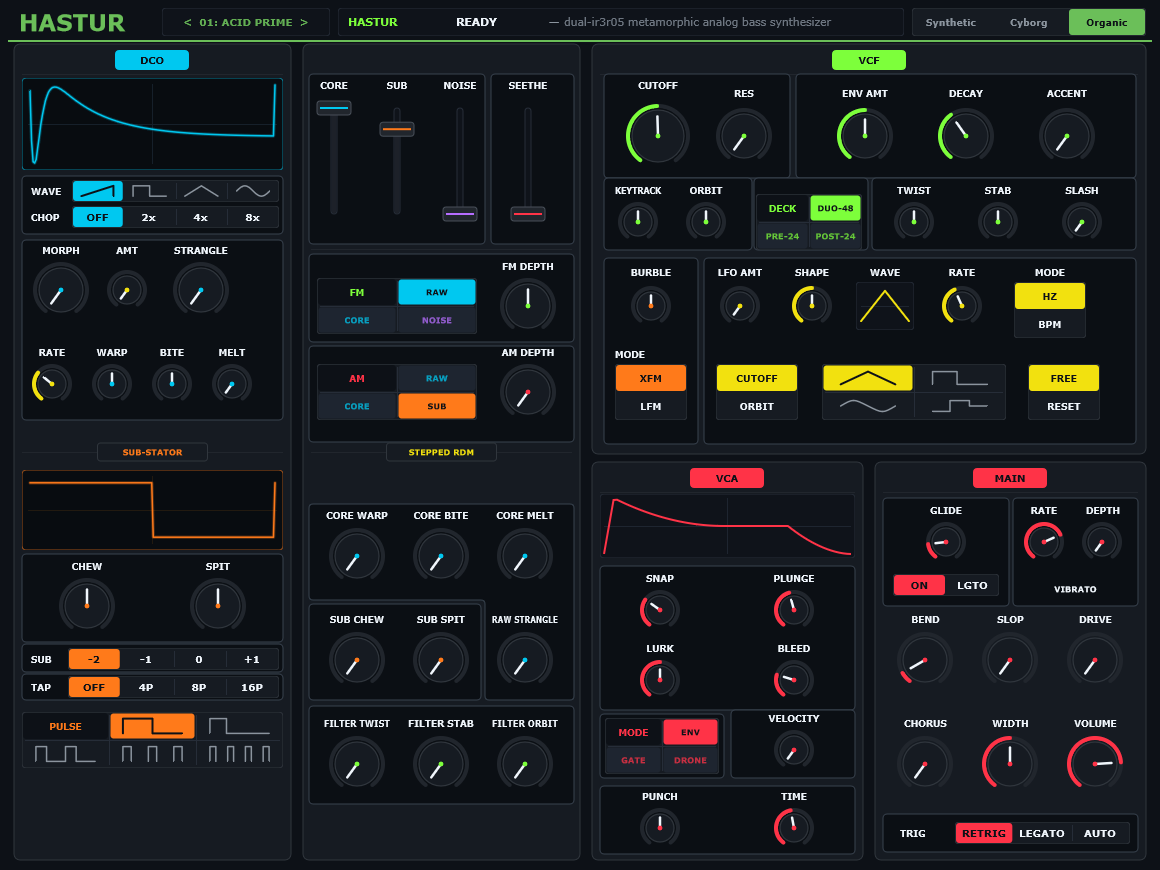
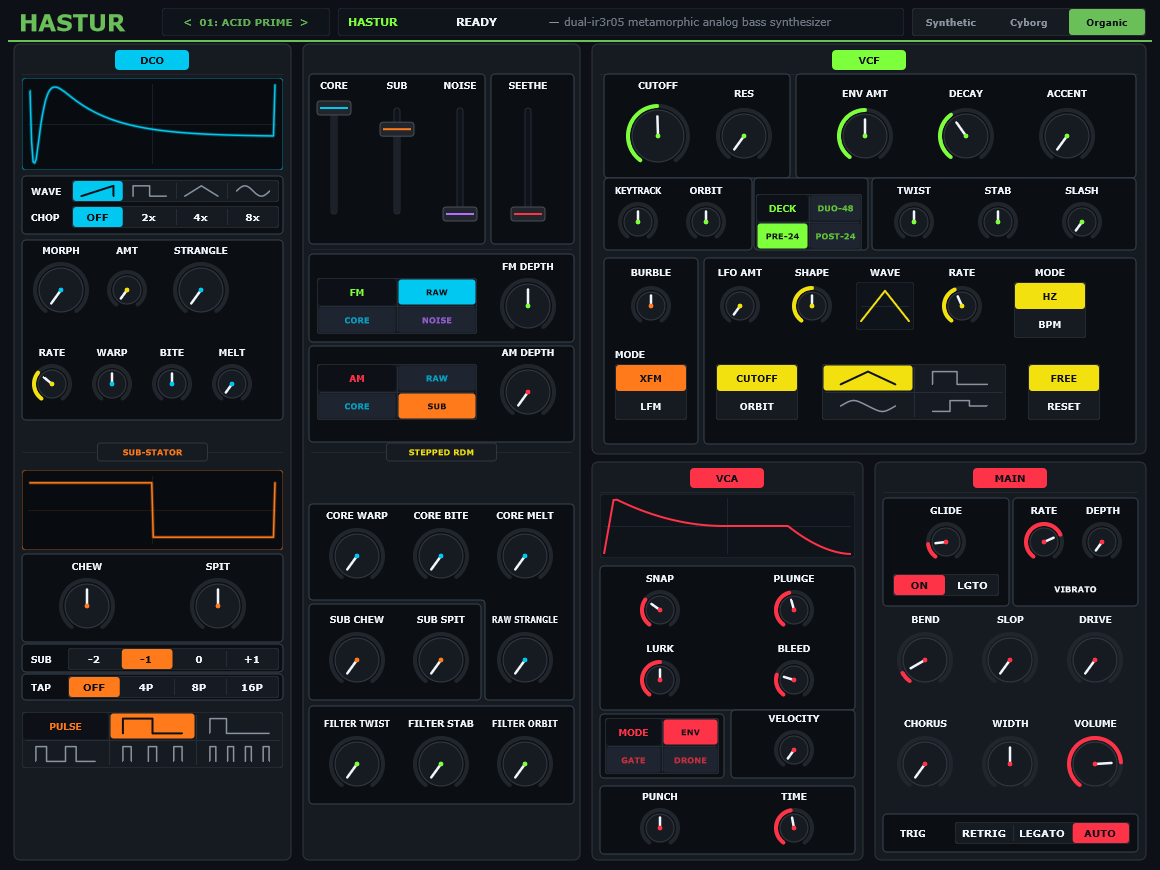
refactor(hastur): establish Hastur sovereign naming invariant, eradicate HS-01 suffix

diff --git a/test/dsp_tests.cpp b/test/dsp_tests.cpp
@@ -3183,10 +3183,10 @@ int main() {
     }
 
     // =========================================================================
-    // SUITE 47: Hastur HS-01 57-Parameter Metadata Dictionary & SSoT Telemetry
+    // SUITE 47: Hastur 70-Parameter Metadata Dictionary & SSoT Telemetry
     // =========================================================================
     {
-        std::cout << "--- Suite 47: Hastur HS-01 70-Parameter Metadata Dictionary & SSoT Telemetry ---" << std::endl;
+        std::cout << "--- Suite 47: Hastur 70-Parameter Metadata Dictionary & SSoT Telemetry ---" << std::endl;
 
         const char* allParamIds[70] = {
             hasturParameters::Ids::osc1_mult,
@@ -3273,11 +3273,11 @@ int main() {
         assert(HasturInfo::getDynamicShapeBlurb(2) == "infinifold");
         assert(HasturInfo::getDynamicShapeBlurb(3) == "slew rate");
 
-        std::cout << "PASS: Suite 47: Hastur HS-01 70-Parameter Metadata Dictionary & SSoT Telemetry verified 100%!\n" << std::endl;
+        std::cout << "PASS: Suite 47: Hastur 70-Parameter Metadata Dictionary & SSoT Telemetry verified 100%!\n" << std::endl;
     }
 
     {
-        std::cout << "--- Suite 48: Hastur HS-01 Stepped Random Modulation Math & Global Trigger Modes ---" << std::endl;
+        std::cout << "--- Suite 48: Hastur Stepped Random Modulation Math & Global Trigger Modes ---" << std::endl;
 
         auto stepRandomNorm = [](float kNorm, float amount, float r) noexcept -> float {
             return std::clamp(kNorm + amount * (r - kNorm), 0.0f, 1.0f);
@@ -3438,7 +3438,7 @@ int main() {
         // NoteOn with ALL_NEW_NOTES draws new step
         voice.noteOn(62, 0.8f, 0.005f, CrackedChimes::DSP::HasturVoice::LfoTriggerMode::ALL_NEW_NOTES);
 
-        std::cout << "PASS: Suite 48: Hastur HS-01 Stepped Random Modulation Math & Global Trigger Modes verified 100%!\n" << std::endl;
+        std::cout << "PASS: Suite 48: Hastur Stepped Random Modulation Math & Global Trigger Modes verified 100%!\n" << std::endl;
     }
 
 
@@ -3530,7 +3530,7 @@ int main() {
     }
 
     // =========================================================================
-    // SUITE 50: Hastur HS-01 Lifeform Oversampling, VCA Voicing & Monolithic 2x Core
+    // SUITE 50: Hastur Lifeform Oversampling, VCA Voicing & Monolithic 2x Core
     // SSoT: Monolithic 2x Voice Core, 12th-Order HIIR Decimator, 3-Tier VCA Voicing
     // =========================================================================
     {
@@ -3666,11 +3666,11 @@ int main() {
             }
         }
 
-        std::cout << "PASS: Suite 50: Hastur HS-01 Lifeform Oversampling, VCA Voicing & Monolithic 2x Core verified 100%!\n" << std::endl;
+        std::cout << "PASS: Suite 50: Hastur Lifeform Oversampling, VCA Voicing & Monolithic 2x Core verified 100%!\n" << std::endl;
     }
 
     // =========================================================================
-    // SUITE 51: Hastur HS-01 Tactile Feel, 8-Octave Acid Sweep & Tracker Auto-Legato
+    // SUITE 51: Hastur Tactile Feel, 8-Octave Acid Sweep & Tracker Auto-Legato
     // SSoT: Bipolar S-Curve Burble, Progressive 96-st Env Sweep, Snappy Cyborg LPG, Renoise Grace Legato
     // =========================================================================
     {
@@ -3773,11 +3773,11 @@ int main() {
             assert(voice.getStepRand(0) == rand0Before);
         }
 
-        std::cout << "PASS: Suite 51: Hastur HS-01 Tactile Feel, 8-Octave Acid Sweep & Tracker Auto-Legato verified 100%!\n" << std::endl;
+        std::cout << "PASS: Suite 51: Hastur Tactile Feel, 8-Octave Acid Sweep & Tracker Auto-Legato verified 100%!\n" << std::endl;
     }
 
     // =========================================================================
-    // SUITE 52: Hastur HS-01 Elevated Lifeform Anti-Aliasing Gauntlet & Benchmark
+    // SUITE 52: Hastur Elevated Lifeform Anti-Aliasing Gauntlet & Benchmark
     // SSoT: Coherent FFT Spur Suppression (C6, C7, C8), Monolithic 2x Core, ADAA1
     // =========================================================================
     {
@@ -4085,7 +4085,7 @@ int main() {
             assert(nsPerSample < 2000.0);
         }
 
-        std::cout << "PASS: Suite 52: Hastur HS-01 Elevated Lifeform Anti-Aliasing Gauntlet verified 100%!\n" << std::endl;
+        std::cout << "PASS: Suite 52: Hastur Elevated Lifeform Anti-Aliasing Gauntlet verified 100%!\n" << std::endl;
     }
 
 

diff --git a/source/hastur/archive/Hastur_Osc3_PLL_QuadLFO_Archive.h b/source/hastur/archive/Hastur_Osc3_PLL_QuadLFO_Archive.h
@@ -3,14 +3,14 @@
 /**
  * ==============================================================================
  * CRACKED CHIMES // ARCHIVE REPOSITORY
- * Subsystem: HASTUR HS-01 — Osc 3, Doepfer A-196 PLL, Quadrature LFO & Mod C Archive
+ * Subsystem: HASTUR — Osc 3, Doepfer A-196 PLL, Quadrature LFO & Mod C Archive
  * Date Archived: 2026-10-28
  * Planned Destination: Phonomicon / The Klang Chimaera Flagship Modular Synthesizer
  * ==============================================================================
  *
  * This archive preserves the complete production-tested DSP, parameter layout,
  * and modulation routing for the complex experimental modules originally designed
- * for Hastur HS-01, preserved prior to the Workhorse Refactoring (Phase 1):
+ * for Hastur, preserved prior to the Workhorse Refactoring (Phase 1):
  *
  * 1. Osc 3 Tri-State Pitch Source Engine (MIDI, PLL, Quadrature LFO)
  * 2. Doepfer A-196 Phase Locked Loop (PLL) with 8x Multisampling

diff --git a/source/hastur/HasturEditor.cpp b/source/hastur/HasturEditor.cpp
@@ -854,7 +854,7 @@ void WaveformGridModal::paint(juce::Graphics& g) {
 }
 
 // ==============================================================================
-// Master Hastur HS-01 Audio Processor Editor Implementation
+// Master Hastur Audio Processor Editor Implementation
 // ==============================================================================
 
 HasturAudioProcessorEditor::HasturAudioProcessorEditor(HasturAudioProcessor& p)

diff --git a/source/hastur/HasturEditor.h b/source/hastur/HasturEditor.h
@@ -1155,7 +1155,7 @@ private:
 };
 
 // ==============================================================================
-// Master Hastur HS-01 Audio Processor Editor
+// Master Hastur Audio Processor Editor
 // ==============================================================================
 
 // ==============================================================================

diff --git a/source/hastur/HasturVoice.h b/source/hastur/HasturVoice.h
@@ -22,7 +22,7 @@ namespace FastMath = TbdAudio::FastMath;
 
 
 /**
- * @brief Cracked Chimes Hastur Monosynth Voice Engine (Model HS-01 Workhorse Edition).
+ * @brief Cracked Chimes Hastur Monosynth Voice Engine (Workhorse Edition).
  * 
  * SOTA Single-Folio Acid & Bass Synthesizer:
  * - Dual Alpha Juno DCO Cores (Osc 1 Core & Osc 2 Sync/Offset) with 18 PolyBLEP shapes.

diff --git a/docs/specs/THE_TRIAD_SONIC_CANON.md b/docs/specs/THE_TRIAD_SONIC_CANON.md
@@ -6,7 +6,7 @@ Across all synthesizers, drum machines, audio effects, and DSP processors create
 
 > *"Clean virtual analog for **Synthetic**, sloshy tube-back warmth with LPGs all over for **Organic**, and built out of nuclear reactor waste for **Cyborg**."*
 
-This triad is the unmistakable fingerprint of Klang instruments. While individual plugins may implement the triad as a 3-way toggle (like Hastur HS-01's *Lifeform*), a continuous tri-polar morph axis, or distinct selectable voice engines, every instrument must embody these three sonic personalities.
+This triad is the unmistakable fingerprint of Klang instruments. While individual plugins may implement the triad as a 3-way toggle (like Hastur's *Lifeform*), a continuous tri-polar morph axis, or distinct selectable voice engines, every instrument must embody these three sonic personalities.
 
 ---
 
@@ -110,3 +110,4 @@ When applying the Triad across different product pillars, translate the characte
 2. **Never Slop the Synthetic**: Synthetic mode must never introduce unrequested pitch drift, DC offset, or harmonic dirt. It is the benchmark of pure engineering precision.
 3. **Never Fake the Organic**: Organic mode must use true physical/optical modeling principles (dual-exponential lag curves, frequency-dependent damping, even-order tube curvature), not just a generic high-shelf rolloff.
 4. **Calibrate the Nuclear Waste**: Cyborg mode is aggressive, but it is **musical**. Edge tearing and wavefolding must be band-limited to prevent unpitched white noise or Nyquist foldover explosions. It should sound like an industrial machine operating at the brink of meltdown, not broken code.
+5. **Hastur Sovereign Naming Invariant**: The canonical product name of the instrument is strictly **Hastur**. No model-number suffixes (`HS-01`, `Model …`) may appear in UI, documentation, release names, build scripts, or code generators. Historical logs and archives are exempt.

diff --git a/README.md b/README.md
@@ -1,16 +1,16 @@
-# Hastur HS-01
+# Hastur
 
 > **Dual-IR3R05 Sub-Bass Synthesizer**  
 > Formats: **VST3** · **AU** (macOS) · **Standalone** (macOS, Linux, Windows)  
 > Architecture: C++20 / JUCE 9.0.3 · 64-bit float audio path
 
-![Hastur HS-01 Faceplate](screenshots/Hastur_GUI.png)
+![Hastur Faceplate](screenshots/Hastur_GUI.png)
 
 ---
 
 ## 1. Instrument Architecture
 
-Hastur HS-01 is a bass synthesizer modeled around Roland DCO pulse-clocking and dual cascaded IR3R05 24 dB/oct state-variable low-pass filters. The audio path maintains continuous DC normalization, 2x monolithic oversampling on non-linear stages, and zero audio-thread memory allocation.
+Hastur is a bass synthesizer modeled around Roland DCO pulse-clocking and dual cascaded IR3R05 24 dB/oct state-variable low-pass filters. The audio path maintains continuous DC normalization, 2x monolithic oversampling on non-linear stages, and zero audio-thread memory allocation.
 
 ```
 [ DCO Core ] ───────┐
